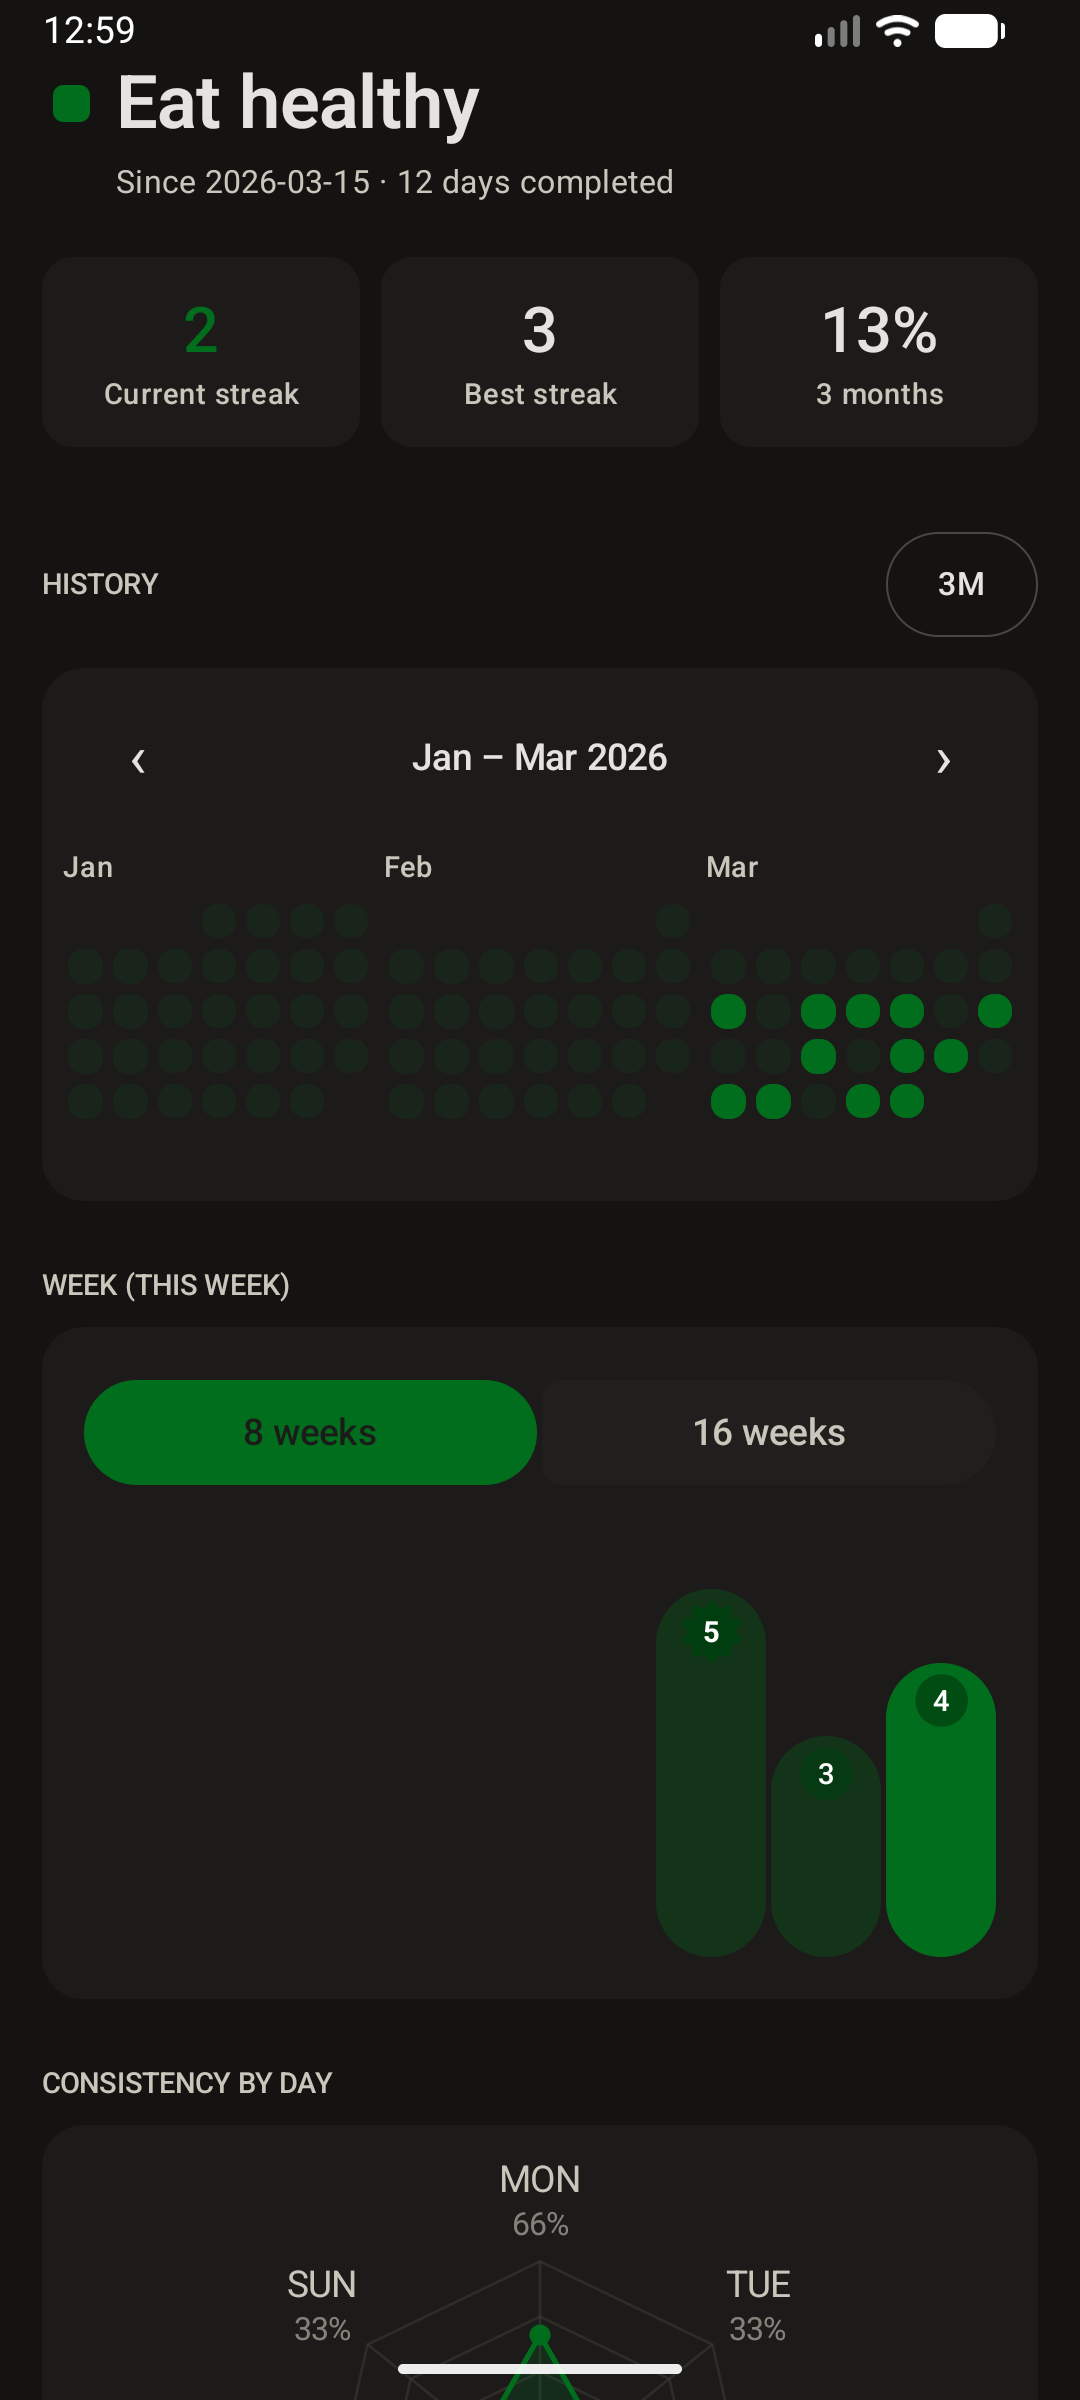
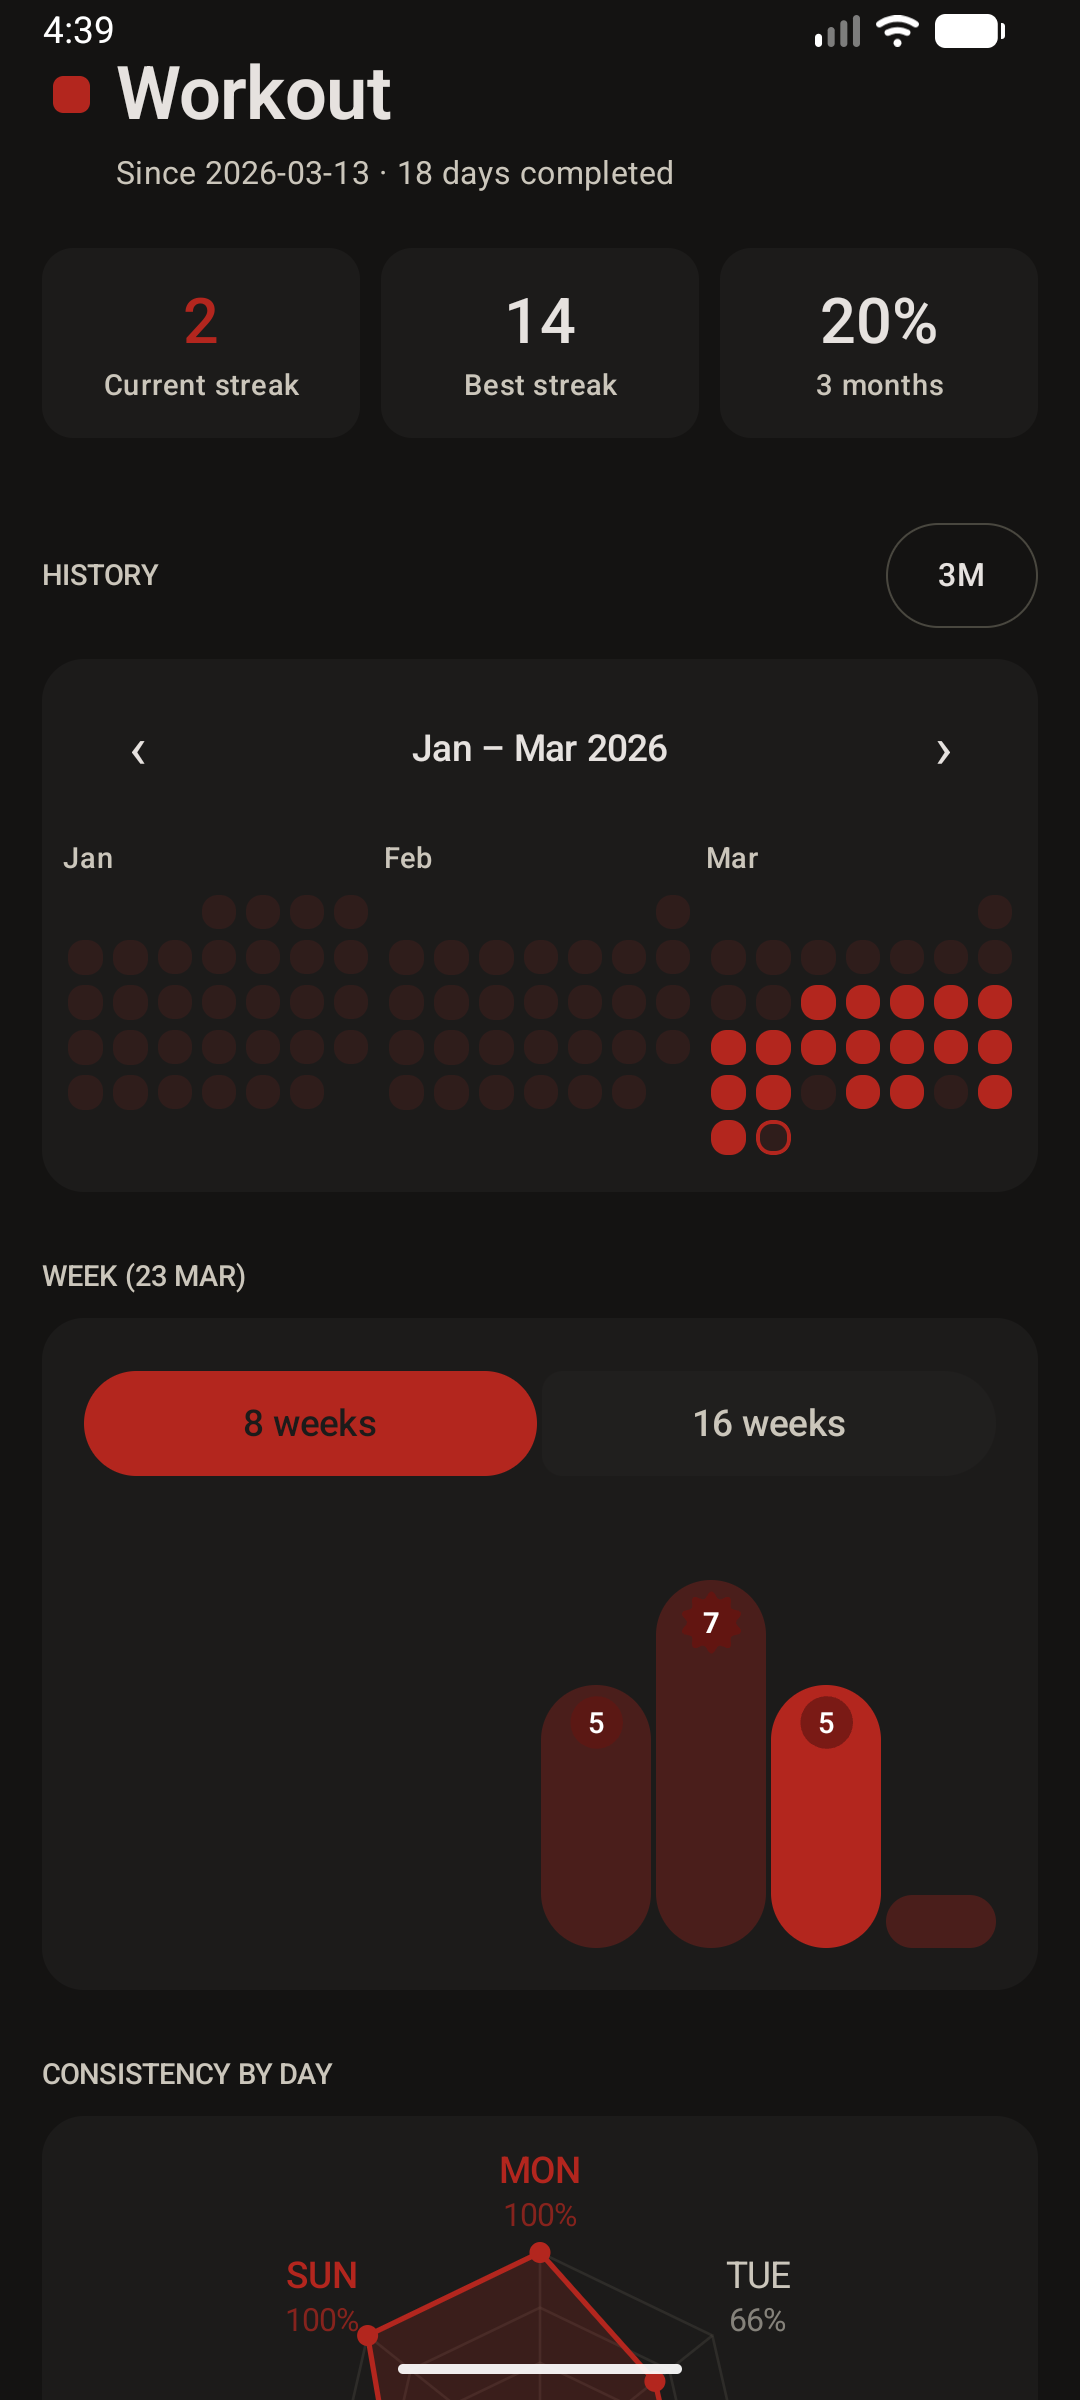
feat: Add spacing in the details screen bottom & update screenshots

diff --git a/feature/habits/src/main/java/com/markel/flowstate/feature/habits/details/HabitDetailScreen.kt b/feature/habits/src/main/java/com/markel/flowstate/feature/habits/details/HabitDetailScreen.kt
@@ -419,7 +419,7 @@ fun HabitDetailScreen(
                     )
                 }
             }
-            Spacer(Modifier.height(6.dp))
         }
+        Spacer(Modifier.height(20.dp))
     }
 }

diff --git a/README.md b/README.md
@@ -19,6 +19,7 @@
   <br>
   <img src="screenshots/habits_prev.png" width="31%" />
   <img src="screenshots/habits_details.png" width="31%" />
+  <img src="screenshots/habits_numeric_details.png" width="31%" />
 </div>
 
 ## Features